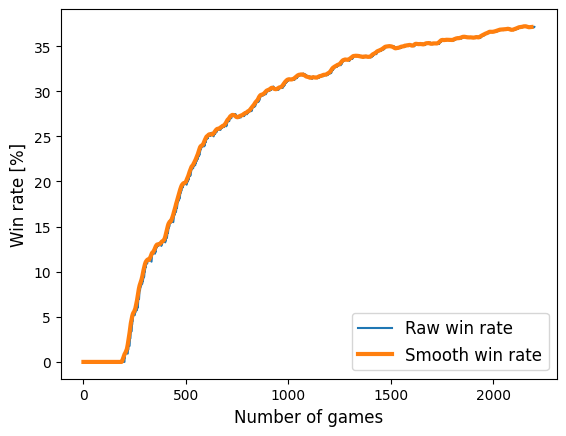
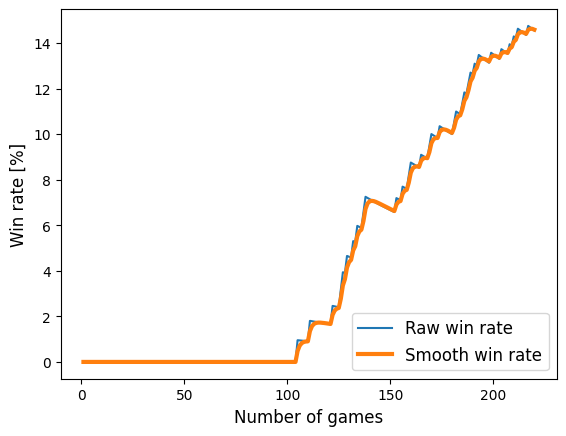
ERH

diff --git a/src/run.py b/src/run.py
@@ -11,6 +11,7 @@ import time
 
 device = "/gpu:0" if tf.config.list_physical_devices('GPU') else "/cpu:0"
 print(f"Running on {device}")
+BoltzmannTemperature = 0.1
 
 def plot_heatMap(q):
     state_labels = ["start", "goal", "winning", "danger", "safe", "default"]
@@ -34,42 +35,20 @@ def plot_heatMap(q):
     fig.tight_layout()
     plt.show()
 
-# def play_game(q, q_player, training=True):
-#     g = ludopy.Game()
-#     stop_while = False
-#     q.training = 1 if training else 0
-#     win_rate = 0
 
-#     while not stop_while:
-#         (dice, move_pieces, player_pieces, enemy_pieces, player_is_a_winner,
-#         there_is_a_winner), player_i = g.get_observation()
-
-#         if player_i == q_player:
-#             piece_to_move = q.updateQTable(player_pieces, enemy_pieces, dice, g, there_is_a_winner)
-#             if there_is_a_winner == 1:
-#                 stop_while = True
-#                 win_rate = 1 if player_is_a_winner else 0
-#         else:
-#             if len(move_pieces):
-#                 piece_to_move = move_pieces[np.random.randint(0, len(move_pieces))]
-#             else:
-#                 piece_to_move = -1
-
-#         _, _, _, _, _, there_is_a_winner = g.answer_observation(piece_to_move)
-
-#     return g.first_winner_was, q.sum_of_rewards, win_rate
 def play_game(q, q_player, training=True, current_game=0, after=0):
     g = ludopy.Game()
     stop_while = False
     q.training = 1 if training and current_game > after else 0
     win_rate = 0
+    
 
     while not stop_while:
         (dice, move_pieces, player_pieces, enemy_pieces, player_is_a_winner,
         there_is_a_winner), player_i = g.get_observation()
 
         if player_i == q_player:
-            piece_to_move = q.updateQTable(player_pieces, enemy_pieces, dice, g, there_is_a_winner) if current_game > after else (np.random.choice(move_pieces) if len(move_pieces) > 0 else -1)
+            piece_to_move = q.updateQTable(player_pieces, enemy_pieces, dice, g, there_is_a_winner, BoltzmannTemperature) if current_game > after else (np.random.choice(move_pieces) if len(move_pieces) > 0 else -1)
             if there_is_a_winner == 1:
                 stop_while = True
                 win_rate = 1 if player_is_a_winner else 0
@@ -83,34 +62,6 @@ def play_game(q, q_player, training=True, current_game=0, after=0):
 
     return g.first_winner_was, q.sum_of_rewards, win_rate
 
-
-
-# def training_phase(q, number_of_runs_for_training, q_player):
-#     array_of_sum_of_rewards = []
-#     win_rate_list = []
-#     for k in range(number_of_runs_for_training):
-#         print('Number of learning games: ', k, ' ER: ', q.explore_rate, ' DF: ', q.discount_factor, ' LR: ', q.learning_rate)
-#         first_winner, sum_of_rewards, win_rate = play_game(q, q_player, training=True)
-#         array_of_sum_of_rewards.append(sum_of_rewards)
-#         win_rate_list.append(win_rate)
-#         q.reset()
-
-#     return array_of_sum_of_rewards, win_rate_list
-
-# def validation_phase(q, number_of_runs_for_validation, q_player):
-#     wins = [0, 0, 0, 0]
-#     q.training = 0
-#     array_of_sum_of_rewards = []
-#     win_rate_list = []
-
-#     for j in range(number_of_runs_for_validation):
-#         first_winner, sum_of_rewards, win_rate = play_game(q, q_player, training=False)
-#         array_of_sum_of_rewards.append(sum_of_rewards)
-#         win_rate_list.append(win_rate)
-#         q.reset()
-#         wins[first_winner] = wins[first_winner] + 1
-
-#     return wins, array_of_sum_of_rewards, win_rate_list
 
 def training_phase(q, number_of_runs_for_training, q_player, after=0):
     array_of_sum_of_rewards = []
@@ -163,9 +114,12 @@ def run(update_each_game = True):
     # learning_rate_vec = [0.15, 0.2, 0.25, 0.3, 0.4]
     # discount_factor_vec = [0.3, 0.35, 0.4, 0.45, 0.5]
     # explore_rate_vec = [0.10, 0.15, 0.20, 0.25, 0.3]
-    after = 200
-    number_of_runs_for_training = 4800
-    number_of_runs_for_validation = 1200
+    # after = 1000
+    # number_of_runs_for_training = 4800
+    # number_of_runs_for_validation = 1200
+    after = 1
+    number_of_runs_for_training = 100
+    number_of_runs_for_validation = 20
     q_player = 0
 
     # Set for traning
@@ -178,7 +132,6 @@ def run(update_each_game = True):
    
     
     win_rate_vec = np.zeros(size_of_win_rate_vec)
-
 
     for ER_index, ER_value in enumerate(explore_rate_vec):
         for DF_index, DF_value in enumerate(discount_factor_vec):
@@ -196,9 +149,11 @@ def run(update_each_game = True):
 
                 win_rate = (wins[q_player] / number_of_runs_for_validation)
                 print('Win rate: ', win_rate)
+                # Append the win rate of validation games to the list of win rates from training games
                 win_rate_vec[ER_index][DF_index][LR_index] = win_rate_list + win_rate_list_validation
                 results = win_rate_vec[ER_index][DF_index][LR_index]
                 #win_rate_vec[ER_index][DF_index][LR_index] = (np.mean(win_rate_list) + np.mean(win_rate_list_validation)) / 2
+                # Calculate the cumulative win rate after each game
                 win_rate_vec[ER_index][DF_index][LR_index] = np.cumsum(results) / (np.arange(len(results)) + 1)
 
                 # if update_each_game:
@@ -213,8 +168,8 @@ def run(update_each_game = True):
                 #     win_rate_vec[ER_index][DF_index][LR_index] = win_rate
                 
                 # Test progress
-                #plt.plot(range(len(array_of_sum_of_rewards)),array_of_sum_of_rewards)
-                #plot_heatMap(q)
+                # plt.plot(range(len(array_of_sum_of_rewards)),array_of_sum_of_rewards)
+                # plot_heatMap(q)
 
                 q.save_QTable("Best_learning_parameters" + str(number_of_runs_for_training) + ".npy")
 

diff --git a/src/Qlearn.py b/src/Qlearn.py
@@ -56,7 +56,7 @@ class QLearn:
         self.training = 1  # determineds if the q table is updated and if there is going to be any explorations.
         self.Q_table = np.zeros((self.number_States, self.number_Actions), dtype=float)
         self.threshold = 0.001
-
+        self.BoltzmannTemperature = 0.5
 
         self.player_index = index
         self.number_of_wins = 0
@@ -204,12 +204,12 @@ class QLearn:
 
 
     # Action selection logic using Boltzmann Exploration
-    def pick_action(self, piece_states, piece_actions):
-        temperature = 0.5  # Set the temperature parameter for the Boltzmann Exploration method
+    def pick_action(self, piece_states, piece_actions, BoltzmannTemperature):
+        #BoltzmannTemperature = 0.5  # Temperature parameter for Boltzmann Exploration
         if not (piece_actions.count(self.no_action) == len(piece_actions)):
             valid_actions = [i for i in range(4) if piece_actions[i] != self.no_action]
             q_values = np.array([self.Q_table[piece_states[i]][piece_actions[i]] for i in valid_actions])
-            action_probs = np.exp(q_values / temperature) / np.sum(np.exp(q_values / temperature))
+            action_probs = np.exp(q_values / BoltzmannTemperature) / np.sum(np.exp(q_values / BoltzmannTemperature))
             best_action_player = np.random.choice(valid_actions, p=action_probs)
         else:
             best_action_player = -1
@@ -217,10 +217,10 @@ class QLearn:
 
 
     # Update Q-table logic    
-    def updateQTable(self, player_pieces, enemy_pieces, dice, game, there_is_a_winner):
+    def updateQTable(self, player_pieces, enemy_pieces, dice, game, there_is_a_winner, BoltzmannTemperature):
         current_actions = self.actions_logic(player_pieces,enemy_pieces,dice)
         current_states = self.states_logic(player_pieces, enemy_pieces, game)
-        piece_index = self.pick_action(current_states, current_actions)
+        piece_index = self.pick_action(current_states, current_actions, BoltzmannTemperature)
         if self.training == 1 and piece_index is not None:
             reward = self.reward(player_pieces, current_states, there_is_a_winner)
             self.sum_of_rewards += reward

diff --git a/src/plot.py b/src/plot.py
@@ -11,6 +11,13 @@ def moving_average(list, N):
             moving_aves.append(moving_ave)
     return moving_aves
 
+def exponential_moving_average(list, alpha):
+    ema = [list[0]]  # starts from the first data point
+    for i in range(1, len(list)):
+        ema.append(alpha * list[i] + (1 - alpha) * ema[i-1])
+    return ema
+
+
 parameters_1 = np.load('/Users/reventlov/Documents/Robcand/2. Semester/TAI/Exam/Ludo-Q-learning-project/src/data/parameters.npy', allow_pickle=True)
 win_rate_vec = np.load('/Users/reventlov/Documents/Robcand/2. Semester/TAI/Exam/Ludo-Q-learning-project/src/data/data.npy')
 
@@ -30,7 +37,8 @@ for ER_index, ER_value in enumerate(explore_rate_vec):
             temp_win_rate = np.sum(win_rate_vec[ER_index][DF_index][LR_index]) / len(win_rate_vec[ER_index][DF_index][LR_index])
             if temp_win_rate > highest_win_rate :
                 highest_win_rate = temp_win_rate
-                temp_data = moving_average(win_rate_vec[ER_index][DF_index][LR_index], 15)
+                #temp_data = moving_average(win_rate_vec[ER_index][DF_index][LR_index], 15)
+                temp_data = exponential_moving_average(win_rate_vec[ER_index][DF_index][LR_index], 0.5)
                 best_data = win_rate_vec[ER_index][DF_index][LR_index]
                 best_index = [ER_value, DF_value, LR_value]
 
